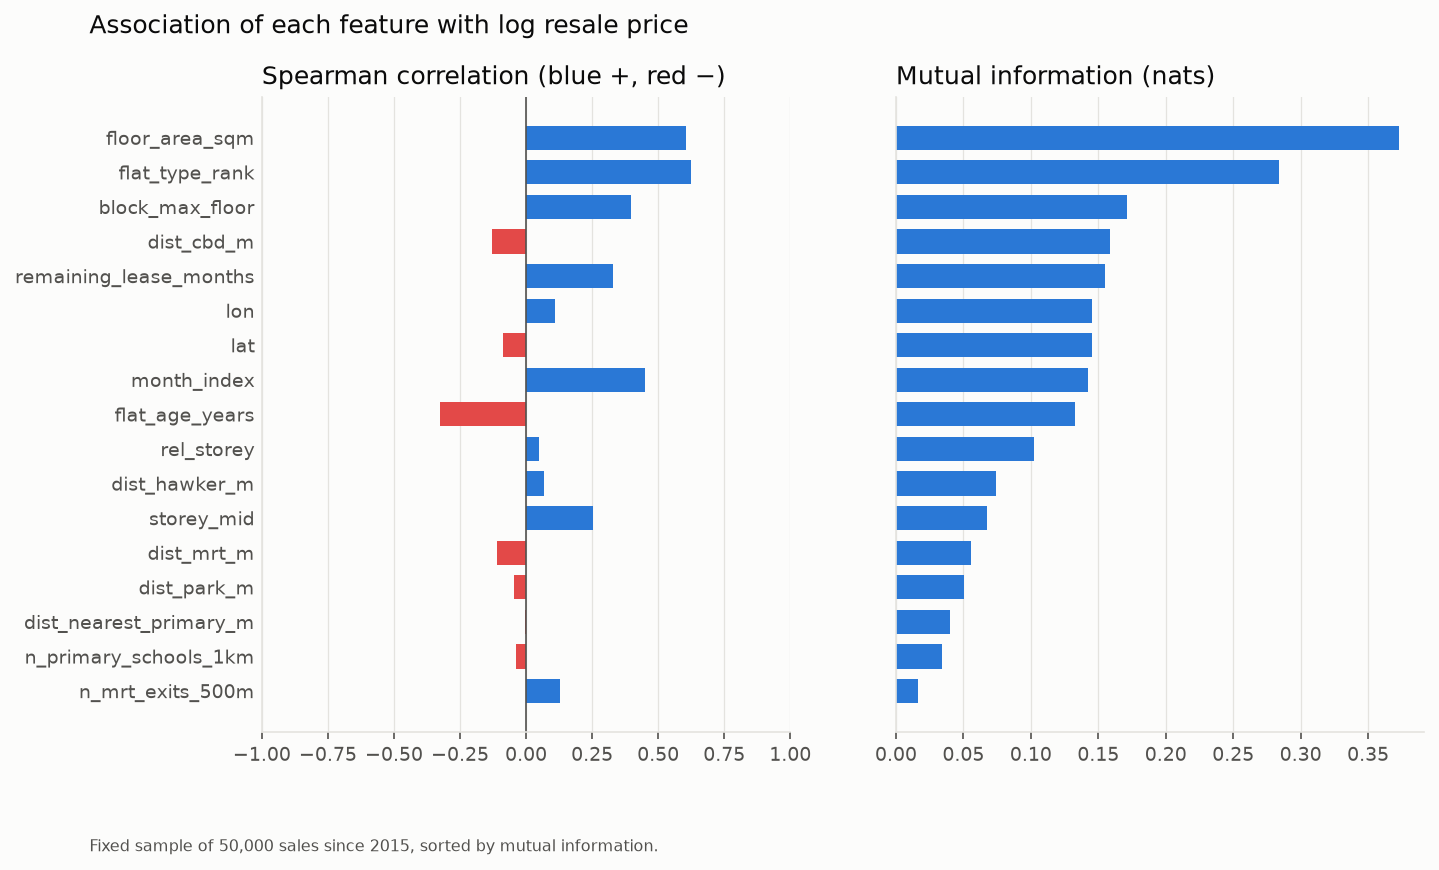
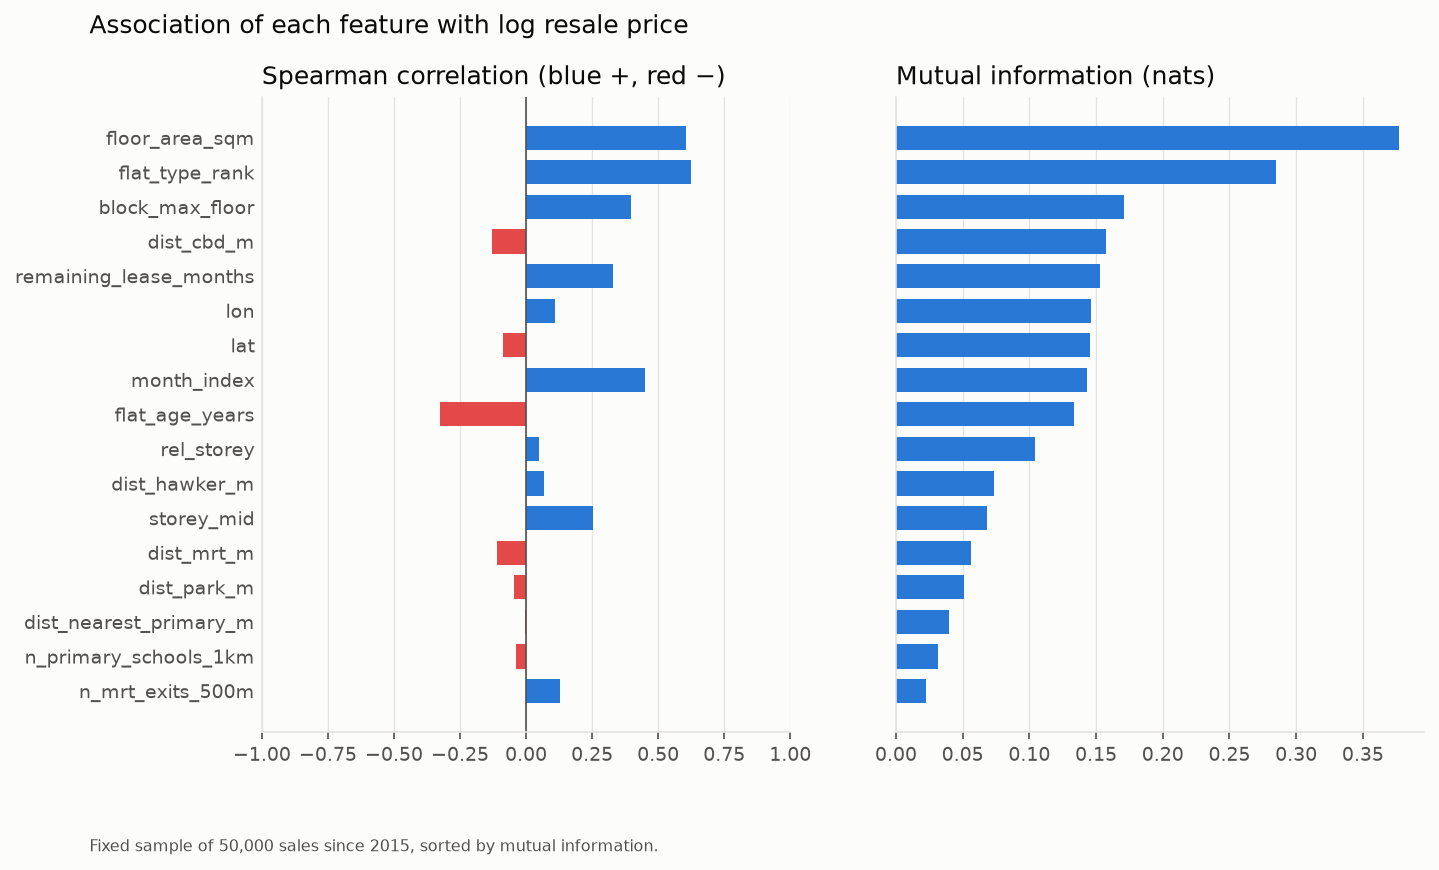
Phase 6 review fixes: discrete MI features, current-only map coverage, MRT tail
- Mutual information scores counts, storeys, block height and flat type as
  discrete features.
- A planning area or town needs enough sales only in the latest 12 months to
  be mapped or ranked; its 2-year change is n/a when the earlier window is thin.
- eda_summary.md describes the 2 km+ MRT bucket (back at par, 1.4% of sales).

diff --git a/pipeline/eda/data.py b/pipeline/eda/data.py
@@ -17,7 +17,8 @@ from sqlalchemy import Engine, text
 
 # From 2015 every sale is located and has every feature (see reports/data_quality.md).
 RECENT_FROM = date(2015, 1, 1)
-# A town or planning area needs this many sales in each window to be ranked or mapped.
+# A town or planning area needs this many sales in the latest 12 months to be ranked or
+# mapped, and this many in the earlier window for its 2-year change to be shown.
 MIN_GROUP_SALES = 50
 # A bin (lease year, storey, distance bucket) needs this many sales to be plotted.
 MIN_BIN_SALES = 200
@@ -52,6 +53,13 @@ ASSOCIATION_FEATURES = (
     "lon",
     "month_index",
 )
+# Integer-valued counts and ranks with few distinct values: mutual information treats them as
+# discrete (the nearest-neighbour estimator for continuous features is biased by ties).
+# month_index and remaining_lease_months take hundreds of values and stay continuous.
+DISCRETE_FEATURES = frozenset(
+    {"flat_type_rank", "storey_mid", "block_max_floor", "n_mrt_exits_500m", "n_primary_schools_1km"}
+)
+WINDOW_COLUMNS = ("earlier_median_psm", "latest_median_psm", "earlier_sales", "latest_sales")
 
 # Price per sqm relative to the median of the sale's town, flat type and year. This removes
 # most of the effect of location, flat type and the market's level, leaving within-group
@@ -121,10 +129,25 @@ def monthly_volume(engine: Engine) -> pd.DataFrame:
     )
 
 
+def window_medians(rows: pd.DataFrame, group: str) -> pd.DataFrame:
+    """Turn (grp, win, median_psm, sales) rows into one row per group.
+
+    A group is kept when it has MIN_GROUP_SALES in the latest window, whatever its history.
+    Its 2-year change is NaN when the earlier window has fewer sales than that.
+    """
+    wide = rows.pivot(index="grp", columns="win", values=["median_psm", "sales"])
+    wide.columns = [f"{win}_{measure}" for measure, win in wide.columns]
+    wide = wide.reindex(columns=list(WINDOW_COLUMNS))
+    wide[["earlier_sales", "latest_sales"]] = wide[["earlier_sales", "latest_sales"]].fillna(0)
+    wide = wide[wide["latest_sales"] >= MIN_GROUP_SALES].copy()
+    change = wide["latest_median_psm"] / wide["earlier_median_psm"] - 1
+    wide["change"] = change.where(wide["earlier_sales"] >= MIN_GROUP_SALES)
+    return wide.rename_axis(group).reset_index()
+
+
 def _latest_and_earlier(engine: Engine, group: str) -> pd.DataFrame:
     """Median price per sqm by `group` in the latest 12 months and the same 12 months two
-    years earlier, with the 2-year change; groups short of MIN_GROUP_SALES in either window
-    are dropped."""
+    years earlier, with the 2-year change (see `window_medians`)."""
     rows = _read(
         engine,
         f"""
@@ -147,14 +170,7 @@ def _latest_and_earlier(engine: Engine, group: str) -> pd.DataFrame:
         GROUP BY grp, win
         """,
     )
-    wide = rows.pivot(index="grp", columns="win", values=["median_psm", "sales"])
-    wide.columns = [f"{win}_{measure}" for measure, win in wide.columns]
-    wide = wide.dropna()
-    wide = wide[
-        (wide["latest_sales"] >= MIN_GROUP_SALES) & (wide["earlier_sales"] >= MIN_GROUP_SALES)
-    ]
-    wide["change"] = wide["latest_median_psm"] / wide["earlier_median_psm"] - 1
-    return wide.rename_axis(group).reset_index()
+    return window_medians(rows, group)
 
 
 def town_ranking(engine: Engine) -> pd.DataFrame:
@@ -168,7 +184,7 @@ def town_ranking(engine: Engine) -> pd.DataFrame:
 
 def planning_area_prices(engine: Engine) -> gpd.GeoDataFrame:
     """Planning-area boundaries with the latest 12 months' median price per sqm (NaN where
-    an area has too few HDB resales)."""
+    an area has too few HDB resales in that window; earlier years do not matter)."""
     with engine.connect() as conn:
         areas = gpd.read_postgis(
             text("SELECT planning_area, region, geom FROM staging.planning_areas"),
@@ -292,7 +308,10 @@ def feature_associations(sample: pd.DataFrame, seed: int = 0) -> pd.DataFrame:
     x = sample[features].astype(float)
     y = sample["log_price"].astype(float)
     spearman = x.corrwith(y, method="spearman")
-    mi = mutual_info_regression(x.to_numpy(), y.to_numpy(), random_state=seed)
+    discrete = [f in DISCRETE_FEATURES for f in features]
+    mi = mutual_info_regression(
+        x.to_numpy(), y.to_numpy(), discrete_features=discrete, random_state=seed
+    )
     out = pd.DataFrame(
         {"feature": features, "spearman": spearman.to_numpy(), "mutual_info": np.asarray(mi)}
     )

diff --git a/tests/test_eda.py b/tests/test_eda.py
@@ -24,6 +24,41 @@ def test_bucket_labels_match_width_bucket_indexes() -> None:
     assert len(data.bucket_labels(data.MRT_BUCKET_EDGES_M)) == len(data.MRT_BUCKET_EDGES_M)
 
 
+def test_window_medians_keep_current_groups_without_history() -> None:
+    rows = pd.DataFrame(
+        [
+            ("OLD", "latest", 6000.0, 80),
+            ("OLD", "earlier", 5000.0, 90),
+            ("NEW", "latest", 7000.0, 60),  # no earlier sales at all
+            ("THIN", "latest", 6500.0, 70),
+            ("THIN", "earlier", 6000.0, 10),  # too few earlier sales for a change
+            ("RARE", "latest", 9000.0, 5),  # too few recent sales: dropped
+            ("RARE", "earlier", 8000.0, 500),
+        ],
+        columns=["grp", "win", "median_psm", "sales"],
+    )
+    result = data.window_medians(rows, "town").set_index("town")
+    assert sorted(result.index) == ["NEW", "OLD", "THIN"]
+    assert result.loc["OLD", "change"] == pytest.approx(0.2)
+    assert pd.isna(result.loc["NEW", "change"])
+    assert pd.isna(result.loc["THIN", "change"])
+    assert result.loc["NEW", "earlier_sales"] == 0
+
+
+def test_feature_associations_treat_counts_as_discrete() -> None:
+    from sklearn.feature_selection import mutual_info_regression
+
+    rng = np.random.default_rng(1)
+    n = 2000
+    sample = pd.DataFrame({"n_mrt_exits_500m": rng.integers(0, 4, n).astype(float)})
+    sample["log_price"] = sample["n_mrt_exits_500m"] * 0.1 + rng.normal(0, 0.05, n)
+    result = data.feature_associations(sample)
+    expected = mutual_info_regression(
+        sample[["n_mrt_exits_500m"]], sample["log_price"], discrete_features=True, random_state=0
+    )[0]
+    assert result.loc[0, "mutual_info"] == pytest.approx(expected)
+
+
 def test_feature_associations_rank_an_informative_feature_first() -> None:
     rng = np.random.default_rng(0)
     n = 2000

diff --git a/pipeline/eda/figures.py b/pipeline/eda/figures.py
@@ -152,7 +152,7 @@ def town_ranking(df: pd.DataFrame, window: str) -> Figure:
     bars = ax.barh(ordered["town"], ordered["latest_median_psm"], color=BLUE, height=0.7)
     for bar, change in zip(bars, ordered["change"], strict=True):
         ax.annotate(
-            f"{change:+.0%}",
+            "n/a" if pd.isna(change) else f"{change:+.0%}",
             (bar.get_width(), bar.get_y() + bar.get_height() / 2),
             xytext=(4, 0),
             textcoords="offset points",
@@ -161,6 +161,8 @@ def town_ranking(df: pd.DataFrame, window: str) -> Figure:
             color=TEXT_SECONDARY,
         )
     ax.set_title(f"Median price per sqm by town, {window} (label: change over 2 years)")
+    if ordered["change"].isna().any():
+        _source_note(fig, "n/a: fewer than 50 sales in the same 12 months two years earlier.")
     ax.set_xlabel("S$ per sqm")
     ax.xaxis.set_major_formatter(mpl.ticker.StrMethodFormatter("{x:,.0f}"))
     ax.grid(axis="y", visible=False)

diff --git a/reports/eda_summary.md b/reports/eda_summary.md
@@ -78,8 +78,10 @@ blocks themselves (newer, often more central), not from height within a block. B
 ## 9. Living near the MRT is worth about 7%, and fades within 600 m
 
 Compared with similar flats, sales within 200 m of an MRT exit fetch 7.4% more and those at
-200–400 m 4.1% more. At 400–600 m the premium is about zero, and beyond 600 m prices sit 2–3%
-below similar flats with no further decline. The raw medians (left panel) are U-shaped
+200–400 m 4.1% more. At 400–600 m the premium is about zero, and from 600 m to 2 km prices sit
+2–3% below similar flats with no further decline. The last bucket, beyond 2 km, is back at
+about the median, but it holds only 3,823 of the 280,653 sales since 2015 (1.4%), too few to
+read as a trend. The raw medians (left panel) are U-shaped
 because distance there is mixed up with location: they show why the comparison needs to be
 within town.
 
@@ -87,12 +89,13 @@ within town.
 
 ## 10. Size dominates; location matters non-linearly; amenity counts add little
 
-On a fixed sample of 50,000 sales since 2015, floor area (mutual information 0.37) and flat
-type (0.28) carry the most information about log price. Next come block height (0.17),
-distance to the CBD (0.16), remaining lease (0.16), latitude and longitude (0.15 each) and
+On a fixed sample of 50,000 sales since 2015, floor area (mutual information 0.38) and flat
+type (0.29) carry the most information about log price. Next come block height (0.17),
+distance to the CBD (0.16), remaining lease (0.15), latitude and longitude (0.15 each) and
 month (0.14). Distance to the CBD has a weak rank correlation (−0.13) but high mutual
 information, so its effect is non-linear, which suits a tree model. Amenity counts and
 distances (schools, parks, hawker centres, MRT exits within 500 m) each carry under 0.08.
+Counts, storeys, block height and flat type are scored as discrete features.
 
 ![Feature associations](figures/feature_associations.png)
 
